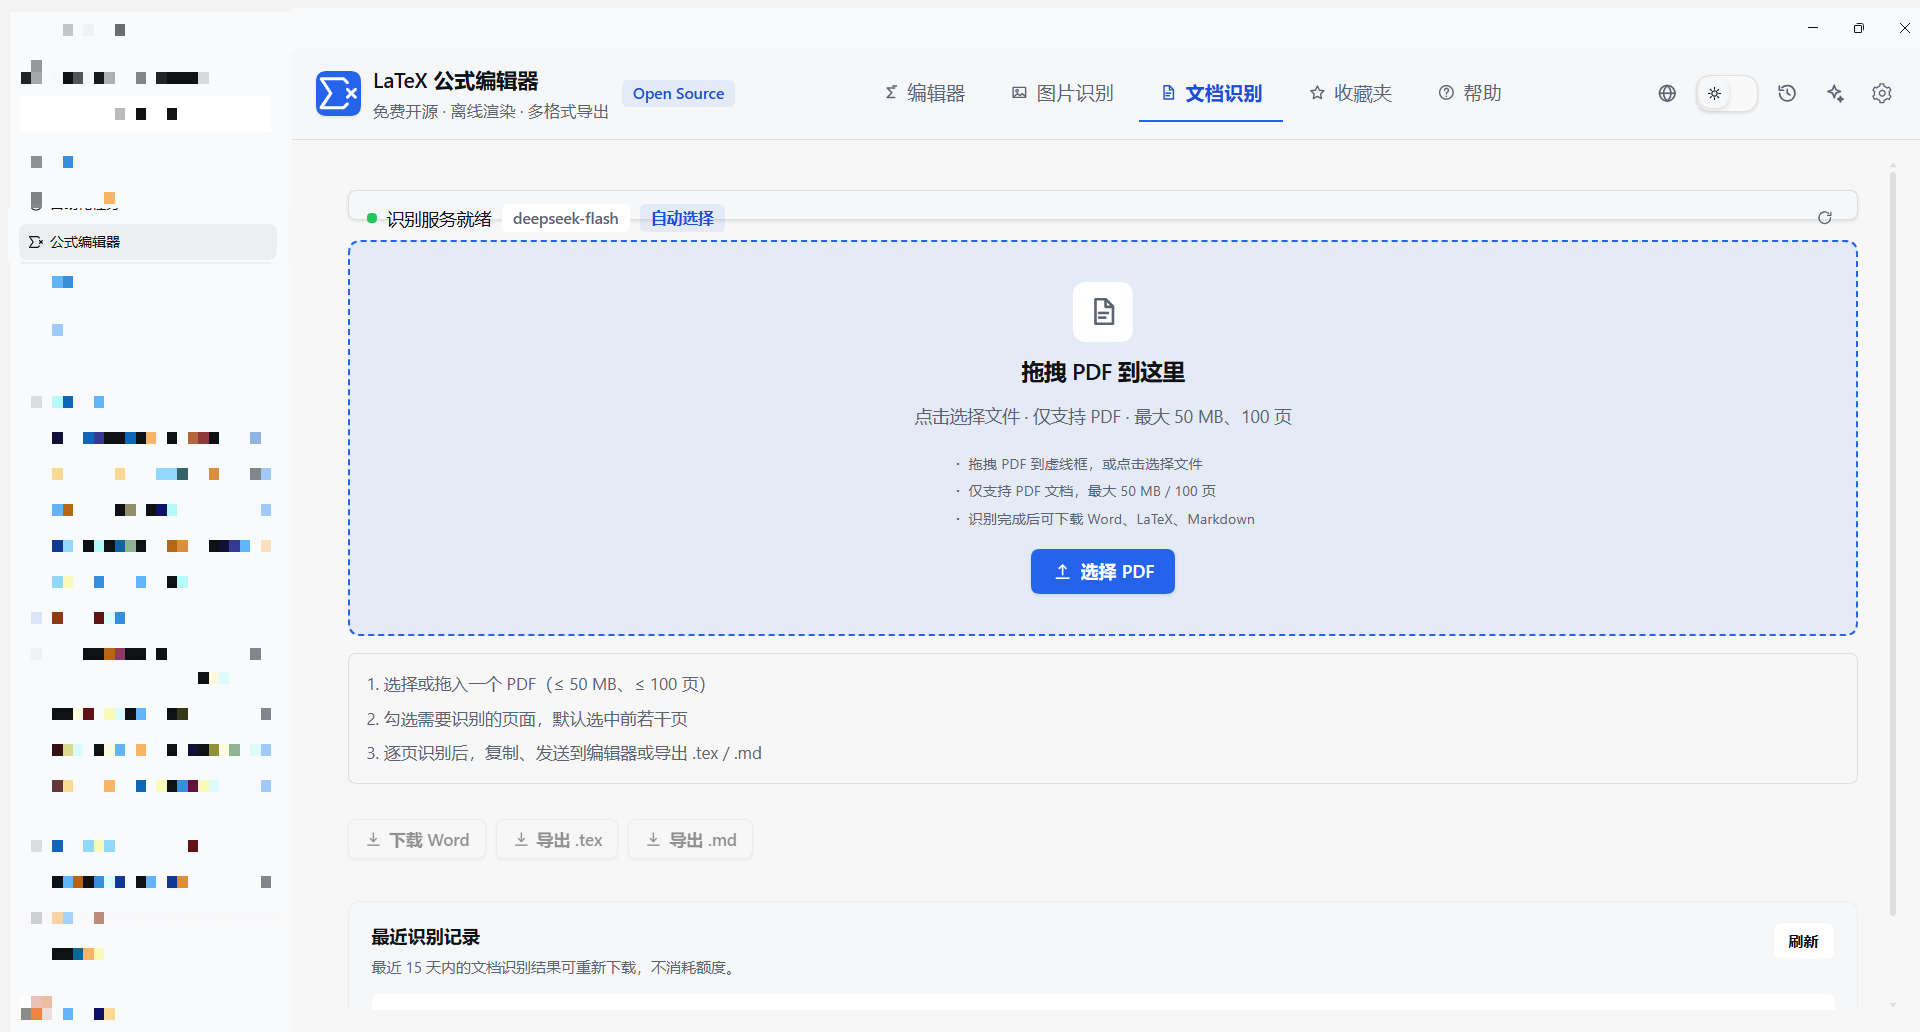
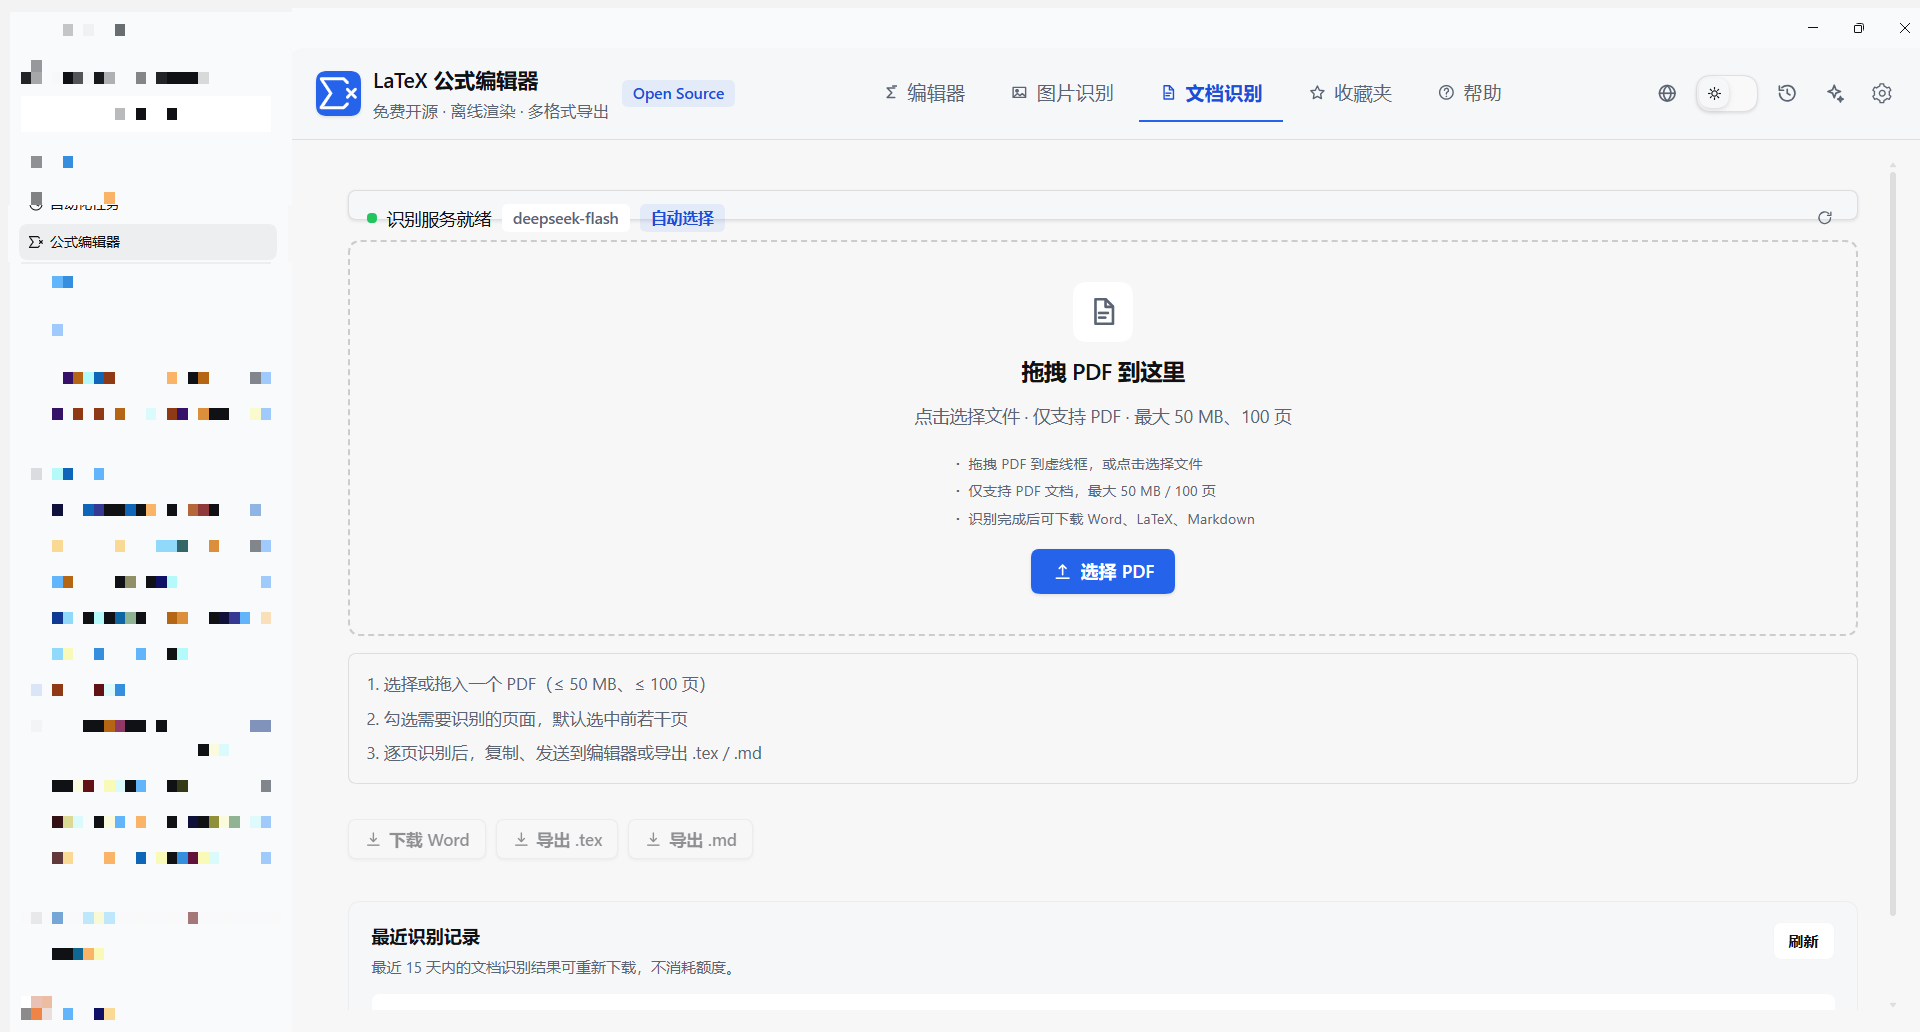
fix(ocr): roomier status strip so badges no longer overflow; refresh doc-ocr screenshot

Changed region(s): [[0.0, 0.3411, 0.1562, 0.8992], [0.0938, 0.6512, 0.125, 0.6822]]

diff --git a/lib/56-recognition-panels.js b/lib/56-recognition-panels.js
@@ -2135,7 +2135,15 @@
 .lx-ocr-page,.lx-doc-tab{display:flex;flex-direction:column;gap:14px;}
 .lx-ocr-fileinput,.lx-doc-fileinput{position:absolute;width:1px;height:1px;padding:0;margin:-1px;overflow:hidden;clip:rect(0 0 0 0);white-space:nowrap;border:0;}
 
-.lx-ocr-status{display:flex;align-items:center;gap:8px;flex-wrap:wrap;min-height:24px;font-size:12px;color:var(--dsw-alias-label-secondary);}
+.lx-ocr-status{
+  display:flex;align-items:center;gap:10px;flex-wrap:wrap;
+  min-height:36px;padding:7px 12px;border:1px solid var(--dsw-alias-border-l1);border-radius:10px;
+  background:var(--dsw-alias-bg-layer-1);
+  font-size:12px;color:var(--dsw-alias-label-secondary);
+}
+.lx-ocr-status .lx-badge{height:22px;padding:0 9px;font-size:11.5px;flex:none;line-height:22px;}
+.lx-ocr-status__label{flex:none;}
+.lx-ocr-status__refresh{margin-left:auto;flex:none;}
 .lx-ocr-status__dot{width:7px;height:7px;border-radius:50%;background:var(--dsw-alias-border-l2);flex:none;}
 .lx-ocr-status__dot--ok{background:var(--dsw-alias-state-success-primary);}
 .lx-ocr-status__dot--err{background:var(--dsw-alias-state-error-primary);}
